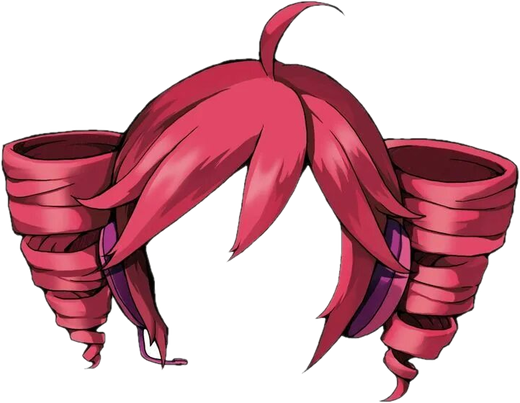
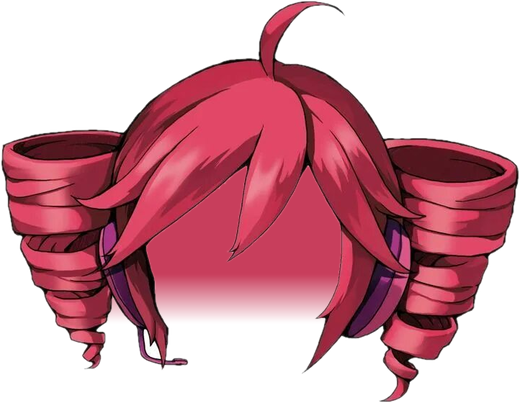
Add files via upload

Changed region(s): [[0.2769, 0.4169, 0.6769, 0.804], [0.2154, 0.7444, 0.2462, 0.804]]

diff --git a/index.html b/index.html
@@ -152,7 +152,7 @@ html,body,#pet{touch-action:manipulation}
 .lvl u{display:block;height:100%;width:0;background:#ffd54a;text-decoration:none}
 .charImg{position:absolute;left:0;top:0;width:100%;height:100%;object-fit:contain;object-position:50% 100%;display:none;pointer-events:none}
 .pet.chrC .photo{display:none}
-.pet.chrC .charImg{display:block}
+.pet.chrC .charImg{display:block;top:auto;bottom:7%;height:90%}
 .pet.chr .eyes,.pet.chr .eyesG,.pet.chr .mouth,.pet.chr .hair,.pet.chr .glasses,.pet.chr .hat{visibility:hidden!important}
 .acc{position:absolute;left:50%;top:90%;width:26cqw;transform:translate(-50%,-50%);display:none;pointer-events:none;filter:drop-shadow(0 3px 5px rgba(0,0,0,.5));z-index:6}
 .aura.k-fox{animation:foxGlow 1.6s ease-in-out infinite alternate}
@@ -369,7 +369,7 @@ const PNEED = [0], PCUM = [0];
 (function () { let v = 100; for (let L = 1; L <= 20; L++) { if (L > 1) v *= L >= 14 ? 1.2 : 1.3; PNEED[L] = Math.round(v); PCUM[L] = PCUM[L - 1] + PNEED[L]; } })();
 function passLevel() { let L = 0; while (L < 20 && S.pass.xp >= PCUM[L + 1]) L++; return L; }
 const CHARS = {
-  shtany:  {n:'Юнус порванные штанишки', img:'char-shtany.jpg',  t:'photo'},
+  shtany:  {n:'Юнус порванные штанишки', img:'char-shtany.png',  t:'cut'},
   fog:     {n:'Фог Юнус',                img:'char-fog.png',     t:'cut'},
   papus:   {n:'Папус Юнус',              img:'char-papus.jpg',   t:'photo'},
   hamster: {n:'Хомяк тупой Юнус тап-тап', img:'char-hamster.png', t:'cut'}
@@ -733,7 +733,7 @@ const HAIRS = [
   {id:'h2', n:'Белая',        p:400,  w:106, hh:51, t:-7, x:0},
   {id:'h3', n:'Бирюзовая',    p:800,  w:108, t:1,  x:0},
   {id:'h4', n:'Красно-белая', p:1000, w:98,  t:-4, x:0},
-  {id:'teto', n:'Волосы Тето', p:0, secret:true, w:96, t:-9, x:0}
+  {id:'teto', n:'Волосы Тето', p:0, secret:true, w:118, t:-17, x:0}
 ];
 let curHair = '';
 function renderHair() {
@@ -780,7 +780,8 @@ const CHANGELOG = [
     'Ежедневные задания (7 в день, 10 с V-I-P) дают опыт пасса; 20 уровней наград: 15 бесплатных и 20 для V-I-P',
     'V-I-P билет: покупается в пассе или в магазине за 17 170 монет',
     'Новая еда: Мармеладка (55 монет, +10% ко всем шкалам, только в ивент) и Пряник из Фоговой Лагуны (67 монет, сон короче на 50%)',
-    'Персонажи и аксессуар из пасса — вкладка «Гардероб»']},
+    'Персонажи и аксессуар из пасса — вкладка «Гардероб»',
+    'Патч 1: волосы Тето теперь закрывают всю голову, новый вид у «Юнус порванные штанишки»']},
   {v:'1.2.0', items:[
     'Уровни Юнуса (до 30): опыт даётся за веселье, еду, мытьё и сон, за каждый новый уровень — монеты',
     'Перерождения (5 штук): за каждое — 2 очка Юнусной чакры, навыки в древе навыков',

diff --git a/sw.js b/sw.js
@@ -1,5 +1,5 @@
 const CACHE = 'yunus-v1-2-1';
-const FILES = ['./', './index.html', './yunus.jpg', './manifest.webmanifest', './icon-192.png', './icon-512.png', './icon-maskable-512.png', './apple-touch-icon.png', './aura-violet.png', './aura-blue.png', './aura-red.png', './aura-gold.png', './aura-pink.png', './hair-h1.png', './hair-h2.png', './hair-h3.png', './hair-h4.png', './aura-black.png', './aura-fire.png', './aura-plasma.png', './sharingan-open.png', './sharingan-closed.png', './aura-blood.png', './aura-sun.png', './aura-d9.png', './aura-d9r.png', './aura-d9h1.png', './aura-d9h2.png', './aura-d9h3.png', './aura-d9h4.png', './gold-open.png', './gold-closed.png', './gold-thumb.png', './bg-kfc.jpg', './bg-galaxy.jpg', './bg-school.jpg', './bg-sauna.jpg', './food-burger.png', './food-cola.png', './food-wing.png', './food-bucket.png', './aura-fox.png', './char-fog.png', './char-hamster.png', './char-papus.jpg', './char-shtany.jpg', './acc-coin.png', './hair-teto.png', './bg-valley.jpg', './hat-boss.png'];
+const FILES = ['./', './index.html', './yunus.jpg', './manifest.webmanifest', './icon-192.png', './icon-512.png', './icon-maskable-512.png', './apple-touch-icon.png', './aura-violet.png', './aura-blue.png', './aura-red.png', './aura-gold.png', './aura-pink.png', './hair-h1.png', './hair-h2.png', './hair-h3.png', './hair-h4.png', './aura-black.png', './aura-fire.png', './aura-plasma.png', './sharingan-open.png', './sharingan-closed.png', './aura-blood.png', './aura-sun.png', './aura-d9.png', './aura-d9r.png', './aura-d9h1.png', './aura-d9h2.png', './aura-d9h3.png', './aura-d9h4.png', './gold-open.png', './gold-closed.png', './gold-thumb.png', './bg-kfc.jpg', './bg-galaxy.jpg', './bg-school.jpg', './bg-sauna.jpg', './food-burger.png', './food-cola.png', './food-wing.png', './food-bucket.png', './aura-fox.png', './char-fog.png', './char-hamster.png', './char-papus.jpg', './char-shtany.png', './acc-coin.png', './hair-teto.png', './bg-valley.jpg', './hat-boss.png'];
 self.addEventListener('install', e => { e.waitUntil(caches.open(CACHE).then(c => c.addAll(FILES)).then(() => self.skipWaiting())); });
 self.addEventListener('activate', e => { e.waitUntil(caches.keys().then(ks => Promise.all(ks.filter(k => k !== CACHE).map(k => caches.delete(k)))).then(() => self.clients.claim())); });
 self.addEventListener('fetch', e => {
